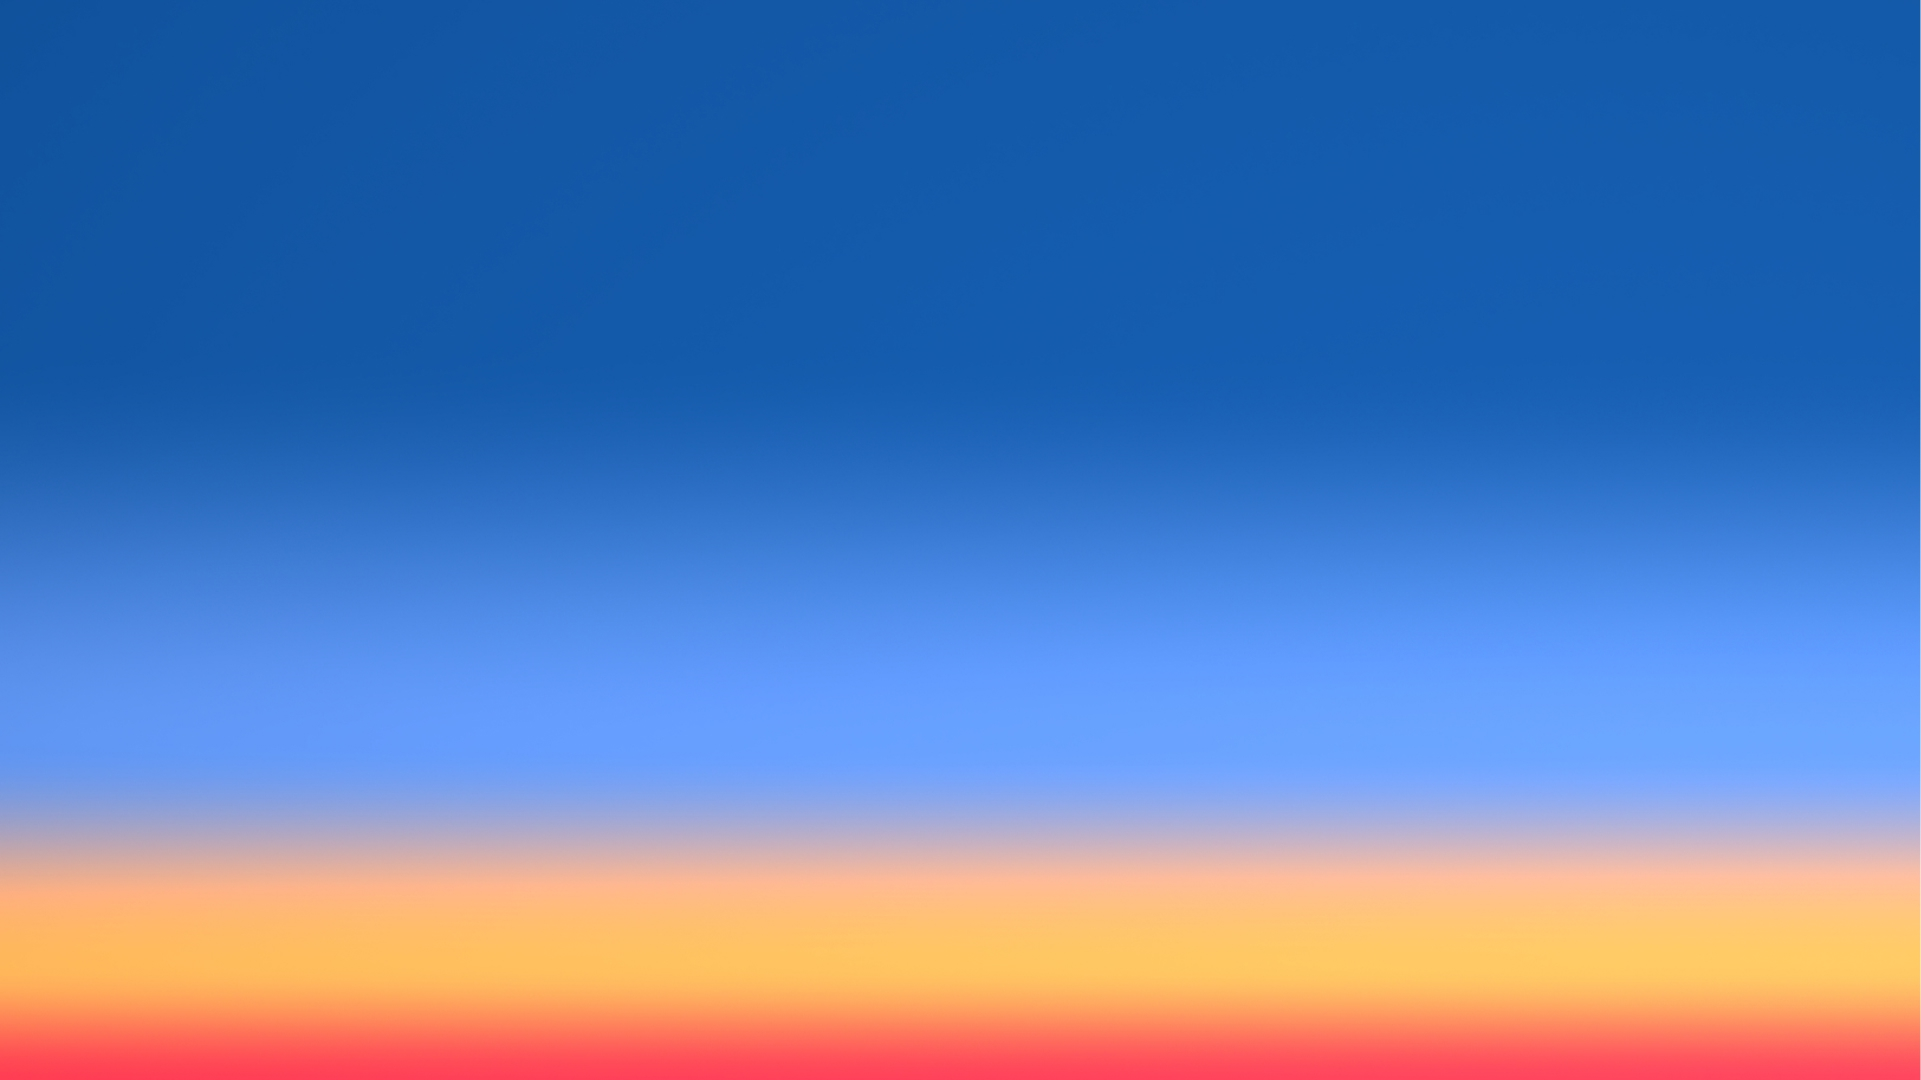
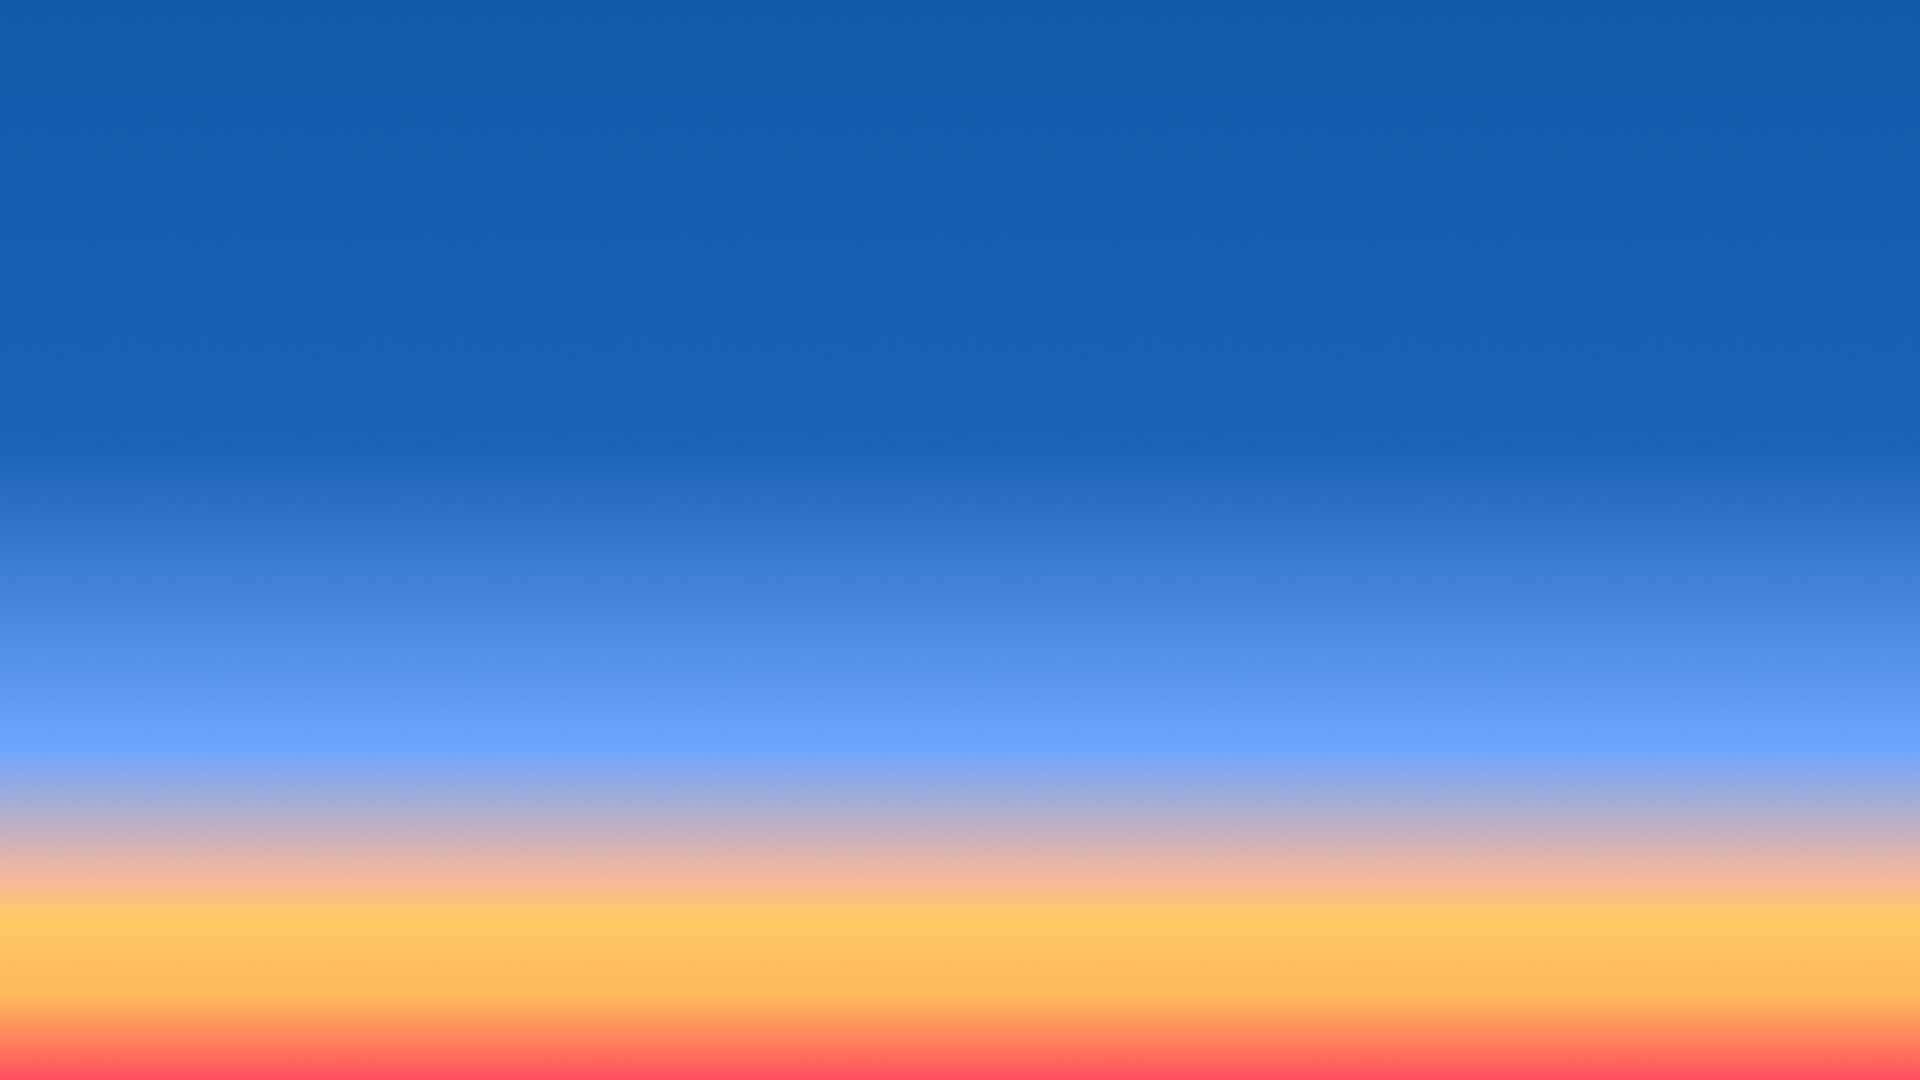
fix: Changed and optimized wallpapers
Did optimize the size of wallpapers and changed
some when no optimization was possible.

Changed region(s): [[0.0, 0.7028, 0.4688, 0.7944], [0.0, 0.9167, 0.4375, 1.0], [0.7188, 0.7028, 1.0, 0.7639]]

diff --git a/src/components/Personalization/wallpapers.js b/src/components/Personalization/wallpapers.js
@@ -26,19 +26,19 @@ export const Wallpapers = [
     image: 'bg_twp_eclipse.svg'
   },
   {
-    key: 'bg_twp_solarglass',
-    label: 'Solar Glass',
-    image: 'bg_twp_solarglass.jpg'
-  },
-  {
-    key: 'bg_twp_stripes',
-    label: 'Stripes',
-    image: 'bg_twp_stripes.svg'
+    key: 'bg_twp_dawn',
+    label: 'Dawn',
+    image: 'bg_twp_dawn.jpg'
   },
   {
     key: 'bg_twp_stellarburst',
     label: 'Stellar Burst',
     image: 'bg_twp_stellarburst.jpg'
+  },
+  {
+    key: 'bg_twp_stripes',
+    label: 'Stripes',
+    image: 'bg_twp_stripes.jpg'
   }
 ]
 
